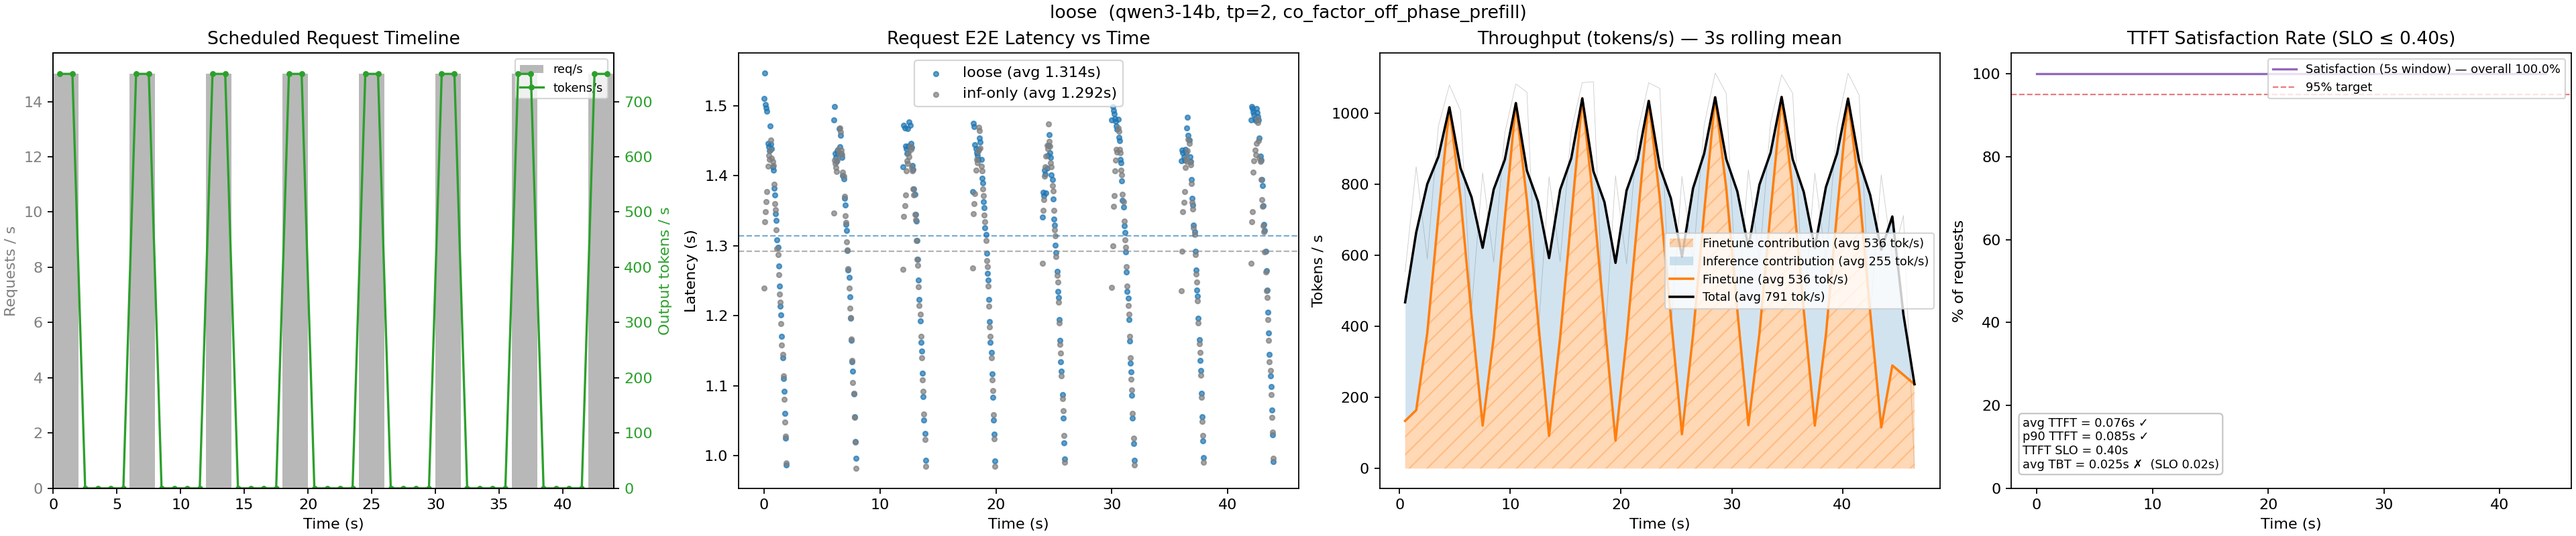
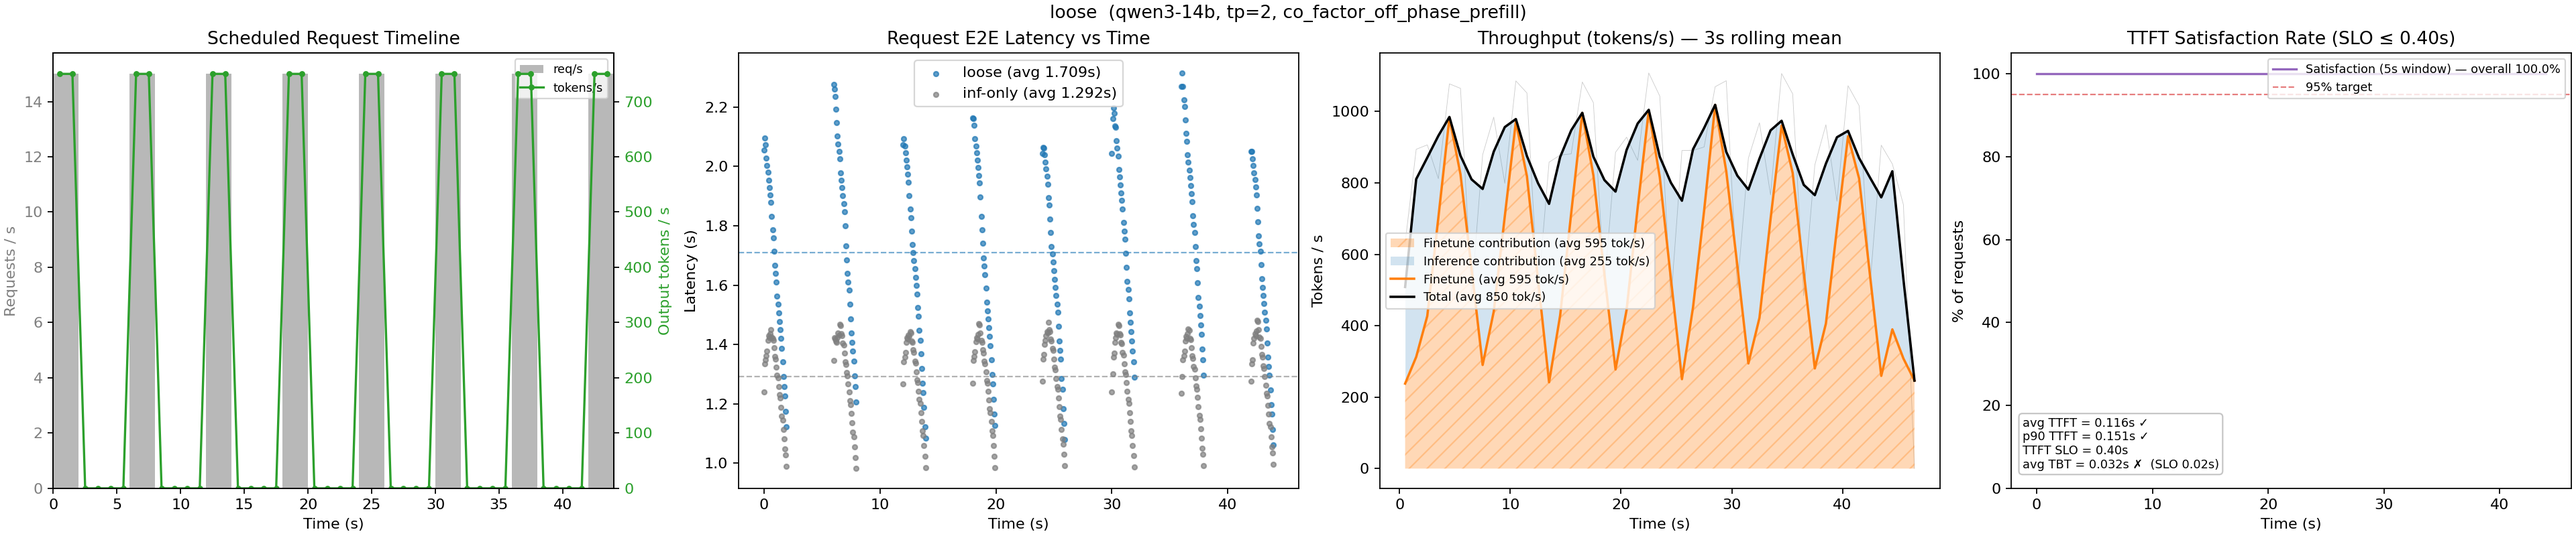
fix(mixed-fwd-cuda-graph): accumulate_final on a graph-padded output with an interleaved FT mask
Under a CUDA graph the model output is padded to the capture size while the FT mask
covers the unpadded batch; the mask-path gather in accumulate_final raised a shape
error and killed the worker (428/534 nutanix requests). Slice to the mask's length
before masking; covered by tests/test_ft_save_op.py. Fresh plots for the three traces.

diff --git a/tests/test_ft_save_op.py b/tests/test_ft_save_op.py
@@ -268,7 +268,29 @@ def test_accumulator_op_path_matches_hooks():
     C.check("second step keeps rows 4..8 from step 1", acc.layer_in[1][4:9].float(), ref.layer_in[1][4:9].float())
 
 
+def test_accumulate_final_padded():
+    """The post-forward final_hidden / ids save on a graph-PADDED output with
+    an interleaved (mask-path) FT layout — the nutanix crash of 2026-09-15."""
+    print("test_accumulate_final_padded:")
+    acc = FinetuneAccumulator(_Top().to(DEV).to(torch.bfloat16), S_MAX, D, DEV,
+                              torch.bfloat16, intermediate_size=INTER,
+                              q_size=HQ * HD, kv_size=HKV * HD)
+    n_unpadded, n_padded = 21, 24
+    hidden = torch.randn(n_padded, D, device=DEV, dtype=torch.bfloat16)
+    ids = torch.arange(n_padded, device=DEV)
+    mask = np.zeros(n_unpadded, dtype=bool)
+    pos = [1, 7, 15]
+    mask[pos] = True
+    acc.accumulate_final(hidden, ids, torch.from_numpy(mask).to(DEV), len(pos),
+                         offset=3, start=0, contiguous=False)
+    torch.cuda.synchronize()
+    C.check("final_hidden rows 3..5 = padded output at 1,7,15",
+            acc.final_hidden[3:6].float(), hidden[pos].float())
+    C.ok("ids follow the mask", acc.concat_input_ids[3:6].tolist() == pos)
+
+
 if __name__ == "__main__":
     test_capture_follows_index_contents()
     test_accumulator_op_path_matches_hooks()
+    test_accumulate_final_padded()
     C.finish()

diff --git a/dserve-vllm/vllm/deltaserve/accumulate.py b/dserve-vllm/vllm/deltaserve/accumulate.py
@@ -620,8 +620,13 @@ class FinetuneAccumulator:
             rows = hidden_states[start:start + num_ft]
             ids = input_ids_flat[start:start + num_ft]
         else:
-            rows = hidden_states[mask_gpu]
-            ids = input_ids_flat[mask_gpu]
+            # [mixed-fwd-cuda-graph] Under a CUDA graph the model output (and
+            # the persistent input-id buffer) is PADDED to the capture size;
+            # the mask covers the unpadded batch. Slice to the mask's length
+            # before masking (a no-op on eager steps).
+            n_mask = int(mask_gpu.shape[0])
+            rows = hidden_states[:n_mask][mask_gpu]
+            ids = input_ids_flat[:n_mask][mask_gpu]
         n = min(rows.shape[0], self.max_saved - offset)
         if n <= 0:
             return

diff --git a/MIXED_FWD_CUDA_GRAPH.md b/MIXED_FWD_CUDA_GRAPH.md
@@ -237,3 +237,14 @@ prefill, the child only runs in the decode-only windows, and the race had been g
 its first ~100 ms of each cycle unpaused. The flag ships **off**; turning it on is the
 right choice only once the backward has a deliberate GPU share during bursts (MPS, or a
 per-cycle unpaused budget, or pausing only when the prefill's TTFT slack is short).
+
+**Bug found on the rerun (2026-09-15, later): padded output vs unpadded mask.** The
+post-forward save of `final_hidden` / input ids (`accumulate_final`) indexed the model
+output with the FT boolean mask. Under a graph the output is padded to the capture size
+(192 rows for a 186-token batch) while the mask covers the unpadded batch → shape error →
+worker crash, 428 of 534 nutanix requests failed. Only the interleaved (mask) layout is
+affected; the contiguous slice path is immune, which is why tight and loose never hit it.
+Fixed by slicing to the mask's length before masking; `tests/test_ft_save_op.py` now
+covers it (30/30). Rerun: 534/534, 100 % TTFT, FT 420 → 487 tok/s, 376 mixed steps with
+60-token samples, no tracebacks. Fresh figures for all three traces are in
+`eval-tp/plots/` and `eval-tp/output/step_trace_*.png`.
